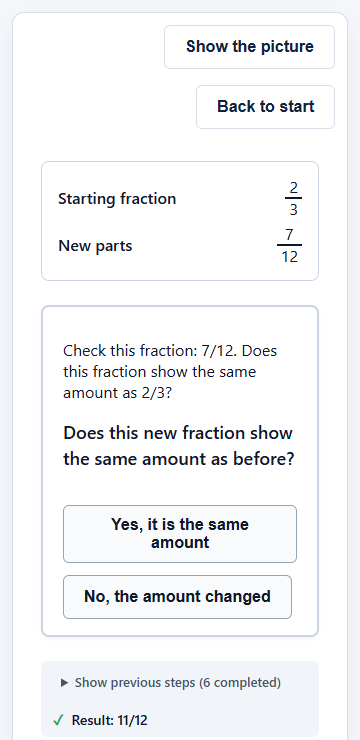
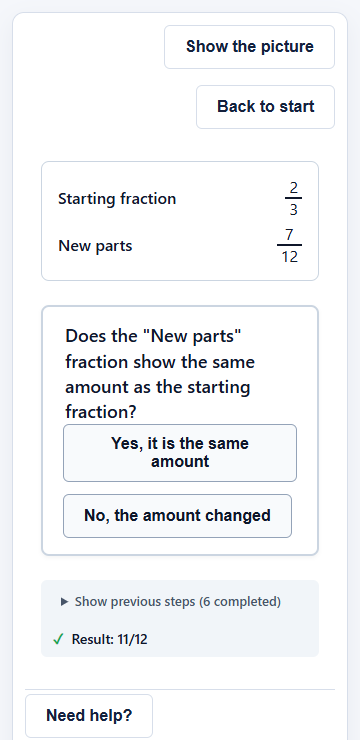
fix(render): clarify linear premise question

diff --git a/tests/app-shell.test.js b/tests/app-shell.test.js
@@ -481,6 +481,41 @@ describe('Plan 09 app shell and upstream display switcher', () => {
     expect(app.getState().established.reflection.premiseCaseId).toBe('premise-rel-prime-12');
   });
 
+  it('uses one visible, associated question for a linear premise response', () => {
+    root.querySelector('.app-return-button').click();
+    root.querySelector('.app-gear-button').click();
+    root.querySelector('[data-condition-id="phase2-bundle-4"]').click();
+    root.querySelector('.app-practice-button').click();
+
+    app.dispatch({ type: 'acknowledge-encounter' });
+    app.dispatch({ type: 'submit-notice', matchesUnits: false });
+    app.dispatch({ type: 'propose-common-denominator', proposed: whole(12) });
+    app.dispatch({ type: 'submit-equivalent-form', proposed: fraction(8, 12) });
+    app.dispatch({ type: 'submit-equivalent-form', proposed: fraction(3, 12) });
+    app.dispatch({ type: 'submit-operation-result', proposed: fraction(11, 12) });
+    app.dispatch({ type: 'submit-resolution', proposed: fraction(11, 12) });
+
+    expect(root.querySelector('.app-visual-view .premise-framing').textContent)
+      .toBe('Check this renaming:');
+    expect(root.querySelector('.app-visual-view').textContent)
+      .toContain('Does the "New parts" bar show the same amount as the starting fraction?');
+
+    root.querySelector('.app-view-toggle').click();
+    const linearView = root.querySelector('.app-linear-view');
+    const responseGroup = linearView.querySelector('.active-beat-controls .control-choice-fieldset');
+    const legend = responseGroup.querySelector('.control-legend');
+    const prompts = linearView.querySelectorAll('.active-beat-prompt');
+    const question = 'Does the "New parts" fraction show the same amount as the starting fraction?';
+
+    expect(linearView.querySelector('.premise-framing')).toBeNull();
+    expect(linearView.querySelector('.active-beat-header .active-beat-prompt')).toBeNull();
+    expect(prompts).toHaveLength(1);
+    expect(prompts[0]).toBe(legend);
+    expect(legend.classList.contains('sr-only')).toBe(false);
+    expect(legend.textContent).toBe(question);
+    expect(legend.parentNode).toBe(responseGroup);
+  });
+
   it('makes replay real in the selected episode condition (Repair 06 Item 1)', () => {
     const replayButton = Array.from(root.querySelectorAll('.app-secondary-button'))
       .find((b) => b.textContent.includes('Replay'));

diff --git a/src/render/linear-path.js b/src/render/linear-path.js
@@ -658,18 +658,6 @@ export function createLinearPathRenderer({
           const isPremise = scene.meaning.currentTask.connectionForm === 'premise';
 
           if (isPremise) {
-            const premiseCase = scene.meaning.premiseCase;
-            const framingEl = document.createElement('p');
-            framingEl.classList.add('premise-framing');
-            if (premiseCase && typeof strings.reflect?.premiseFramingLinear === 'function') {
-              const pres = `${premiseCase.presentedForm.numerator}/${premiseCase.presentedForm.denominator}`;
-              const src = `${premiseCase.sourceForm.numerator}/${premiseCase.sourceForm.denominator}`;
-              framingEl.textContent = strings.reflect.premiseFramingLinear(pres, src);
-            } else {
-              framingEl.textContent = strings.reflect?.premiseFraming || 'Check this renaming:';
-            }
-            promptHeader.appendChild(framingEl);
-
             promptText.textContent = strings.reflect.premisePromptLinear || strings.reflect.premisePrompt;
             const options = [
               {
@@ -694,6 +682,9 @@ export function createLinearPathRenderer({
                 });
               },
             });
+            const questionLegend = choiceGroup.querySelector('.control-legend');
+            questionLegend.classList.remove('sr-only');
+            questionLegend.classList.add('active-beat-prompt');
             controlsContainer.appendChild(choiceGroup);
           } else {
             const left = scene.meaning.quantities.left;
@@ -744,7 +735,8 @@ export function createLinearPathRenderer({
     const helpMessage = lastHelp && lastHelp.beat === beat && beat !== 'decide'
       ? strings.app?.helpLevels?.[lastHelp.level]
       : null;
-    if (beat !== 'decide' && beat !== 'transform') {
+    const isLinearPremiseReflection = beat === 'reflect' && task.connectionForm === 'premise';
+    if (beat !== 'decide' && beat !== 'transform' && !isLinearPremiseReflection) {
       promptHeader.appendChild(promptText);
       activeBeatEl.appendChild(promptHeader);
     }

diff --git a/src/render/strings.js b/src/render/strings.js
@@ -134,16 +134,13 @@ export const STRINGS = Object.freeze({
     premiseExpectedYes: 'Correct! The parts are smaller, but the total shaded amount is the same.',
 
     // Accessible linear path phrasing (DECISION-004, Condition 6)
-    premiseFramingLinear: (presented, source) => (
-      `Check this fraction: ${presented}. Does this fraction show the same amount as ${source}?`
-    ),
     matchingPromptLinear: (targetFraction) => (
       `Choose the fraction that shows the same amount as ${targetFraction}.`
     ),
     matchingOptionLabelLinear: (num, den) => (
       `Fraction ${num}/${den} shows a shaded amount`
     ),
-    premisePromptLinear: 'Does this new fraction show the same amount as before?',
+    premisePromptLinear: 'Does the "New parts" fraction show the same amount as the starting fraction?',
   }),
 
   controls: Object.freeze({
